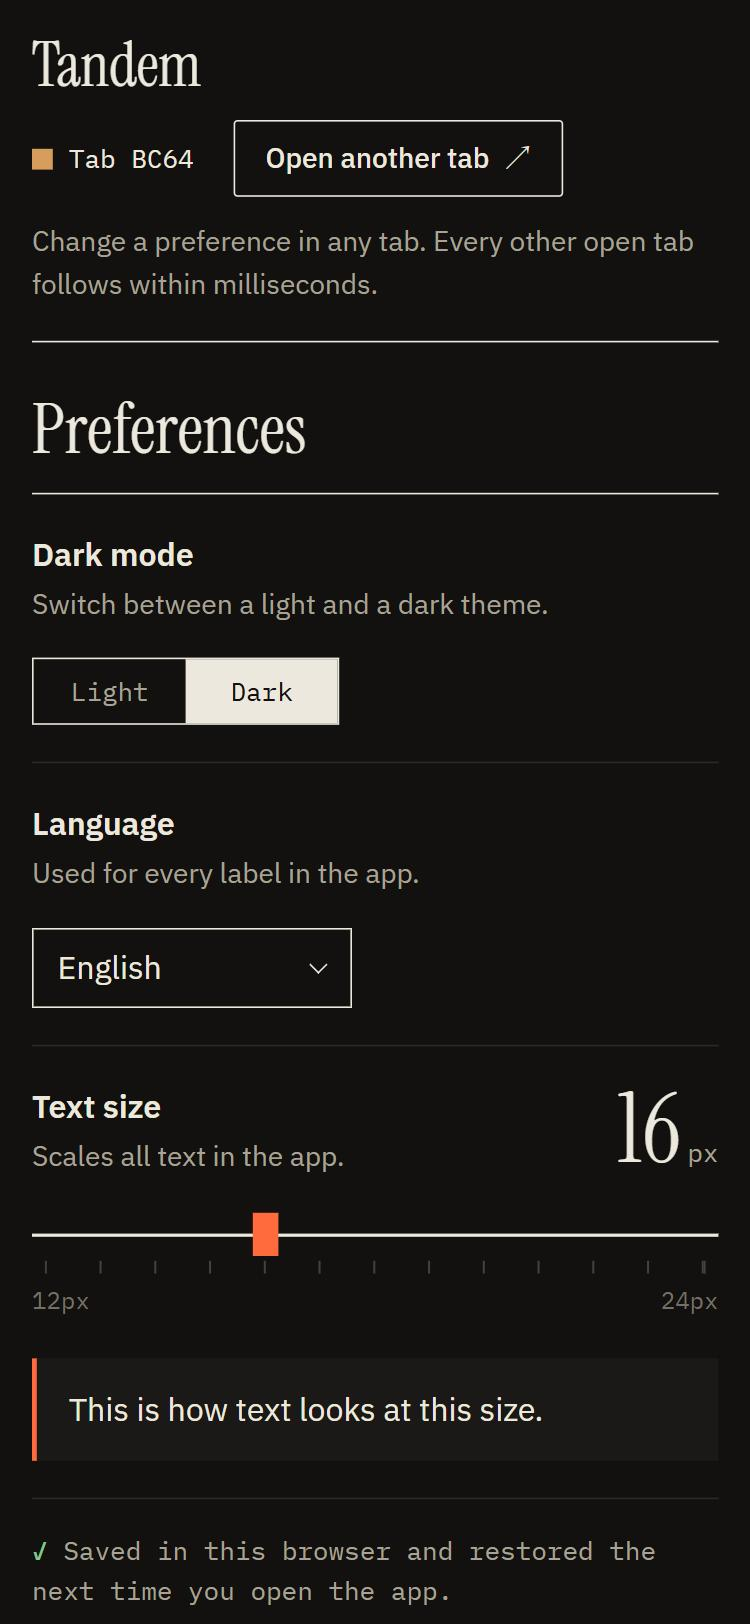
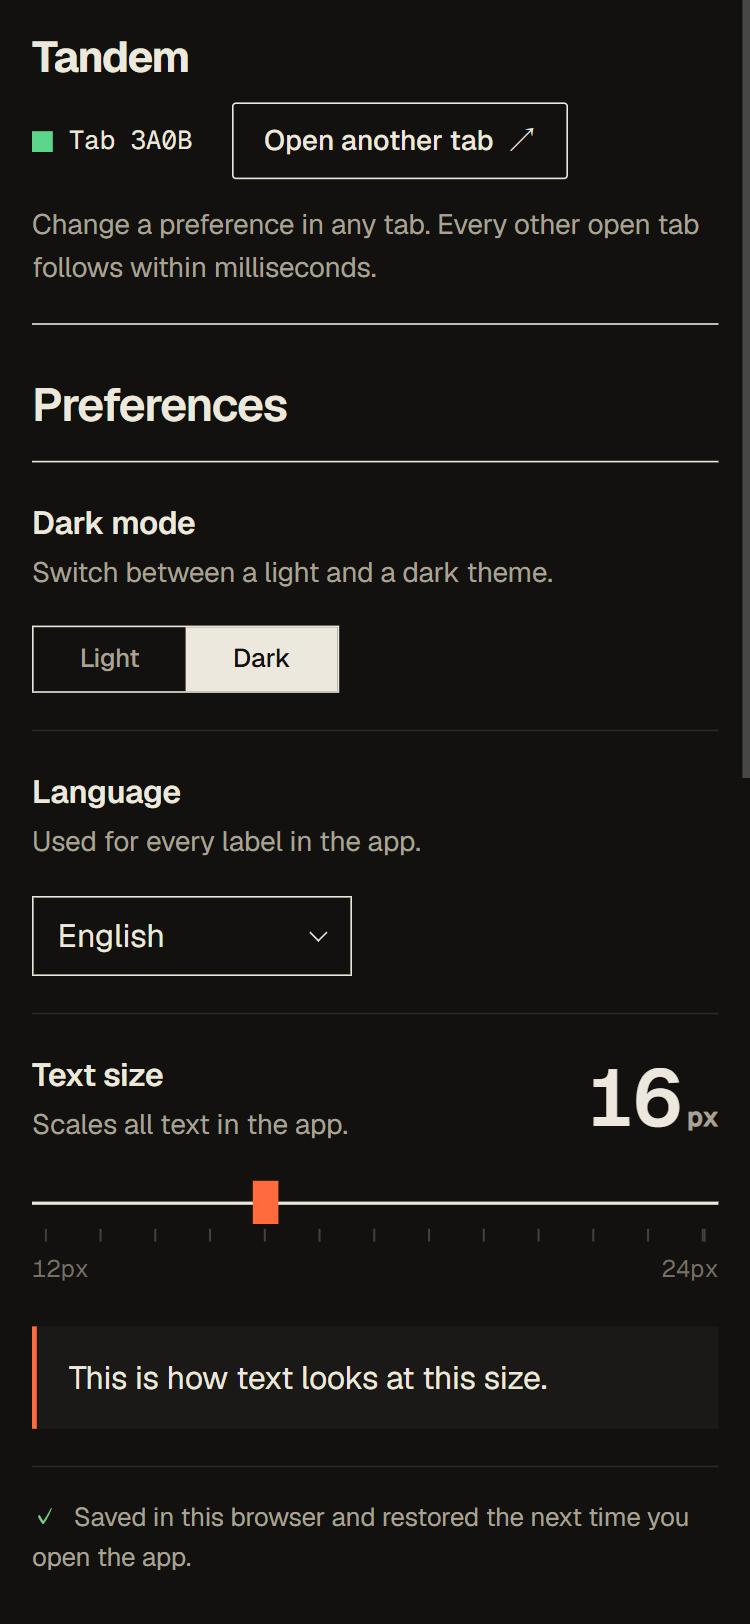
Refresh README screenshots for the new app type

diff --git a/README.md b/README.md
@@ -15,7 +15,7 @@
 
 <br />
 
-<img src="docs/screenshots/app-light.jpg" alt="The Tandem app in light mode: preferences on the left, the sync monitor on the right with three tabs in sync and a finished conflict drill" width="820" />
+<img src="docs/screenshots/app-light.jpg" alt="The Tandem app in light mode: preferences on the left, the sync monitor on the right with live latency and two tabs in sync" width="860" />
 
 </div>
 
@@ -61,6 +61,12 @@
 | New tabs never show the wrong theme | Inline script in `<head>` applies saved settings before the first frame | `app/index.html` |
 | Deterministic conflict resolution | Per-setting last-writer-wins with a hybrid logical clock; the tab id breaks ties | `src/sync/clock.ts`, `src/sync/merge.ts` |
 | Repository, README, technical explanation, deployment | This repository, this file, the sections below, and the [live site](https://gdg-project-submission.vercel.app) | – |
+
+<div align="center">
+<img src="docs/screenshots/app-hindi.jpg" alt="The same app with the language set to Hindi" width="760" />
+<br />
+<sub>Switch the language in one tab and every open tab re-renders in it. Here: हिन्दी.</sub>
+</div>
 
 <details>
 <summary><b>Evaluation criteria, mapped</b></summary>
